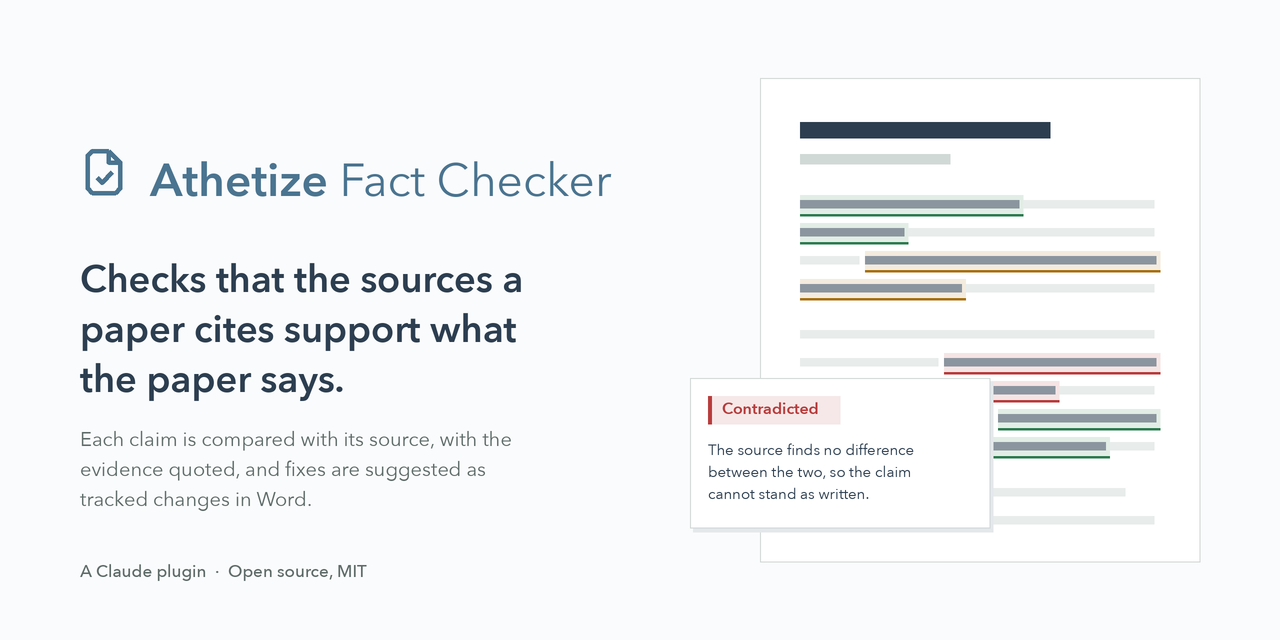
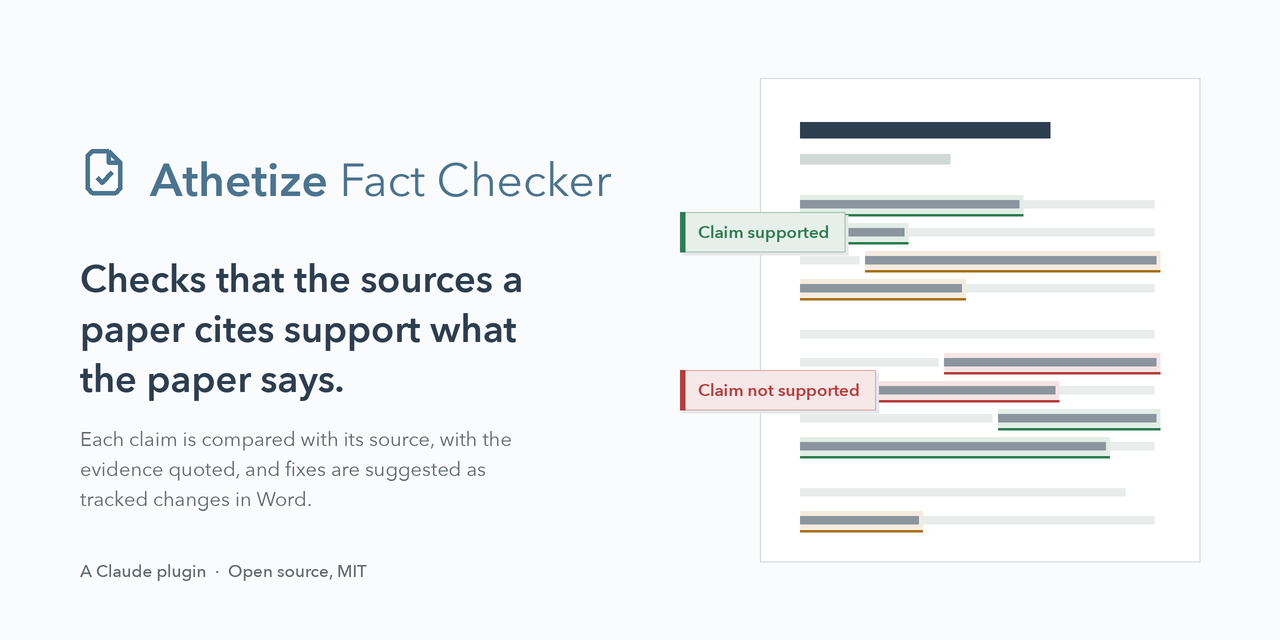
docs: sharp README screenshots at twice the pixel density; social image with result labels

Changed region(s): [[0.5312, 0.5625, 0.7812, 0.8438], [0.5312, 0.3125, 0.6875, 0.4062]]

diff --git a/README.md b/README.md
@@ -7,7 +7,7 @@
 
 A Claude plugin that checks whether the sources a paper cites support what the paper says. It finds each claim, gets the cited source, compares the two, and shows the result on your paper with the evidence quoted. It is a screening aid: every flag still needs a human look.
 
-![The report: a paper with each claim highlighted by its result](docs/images/report-highlights.jpg)
+![The report: a paper with each claim highlighted by its result](docs/images/report-highlights.png)
 
 ## Install
 
@@ -82,15 +82,15 @@ A result that rests on an abstract only is marked provisional.
 
 Click a claim for the analysis, the quoted passage and a suggested rewording:
 
-![A claim's card: the result, the analysis and the evidence quoted from the source](docs/images/report-claim-card.jpg)
+![A claim's card: the result, the analysis and the evidence quoted from the source](docs/images/report-claim-card.png)
 
 Switch to Suggested Edits to see every rewording and reference fix marked in the paper, as tracked changes:
 
-![Suggested Edits: rewordings marked in the paper as tracked changes](docs/images/report-edits.jpg)
+![Suggested Edits: rewordings marked in the paper as tracked changes](docs/images/report-edits.png)
 
 The Sources tab shows where each source's text came from and lets you add the missing ones:
 
-![The Sources tab: each reference, where its text came from and the claims that cite it](docs/images/report-sources.jpg)
+![The Sources tab: each reference, where its text came from and the claims that cite it](docs/images/report-sources.png)
 
 The Word copy, shown here in LibreOffice:
 

diff --git a/CHANGELOG.md b/CHANGELOG.md
@@ -2,6 +2,12 @@
 
 All notable changes to Athetize will be documented in this file.
 
+## [Unreleased]
+
+### Changed
+- The README screenshots are sharp: PNG at twice the pixel density, where they were 800-pixel JPEGs that GitHub stretched
+- The social preview image shows two result labels, "Claim supported" and "Claim not supported", in place of a card with text
+
 ## [0.8.5] - 2026-11-11
 
 ### Added
